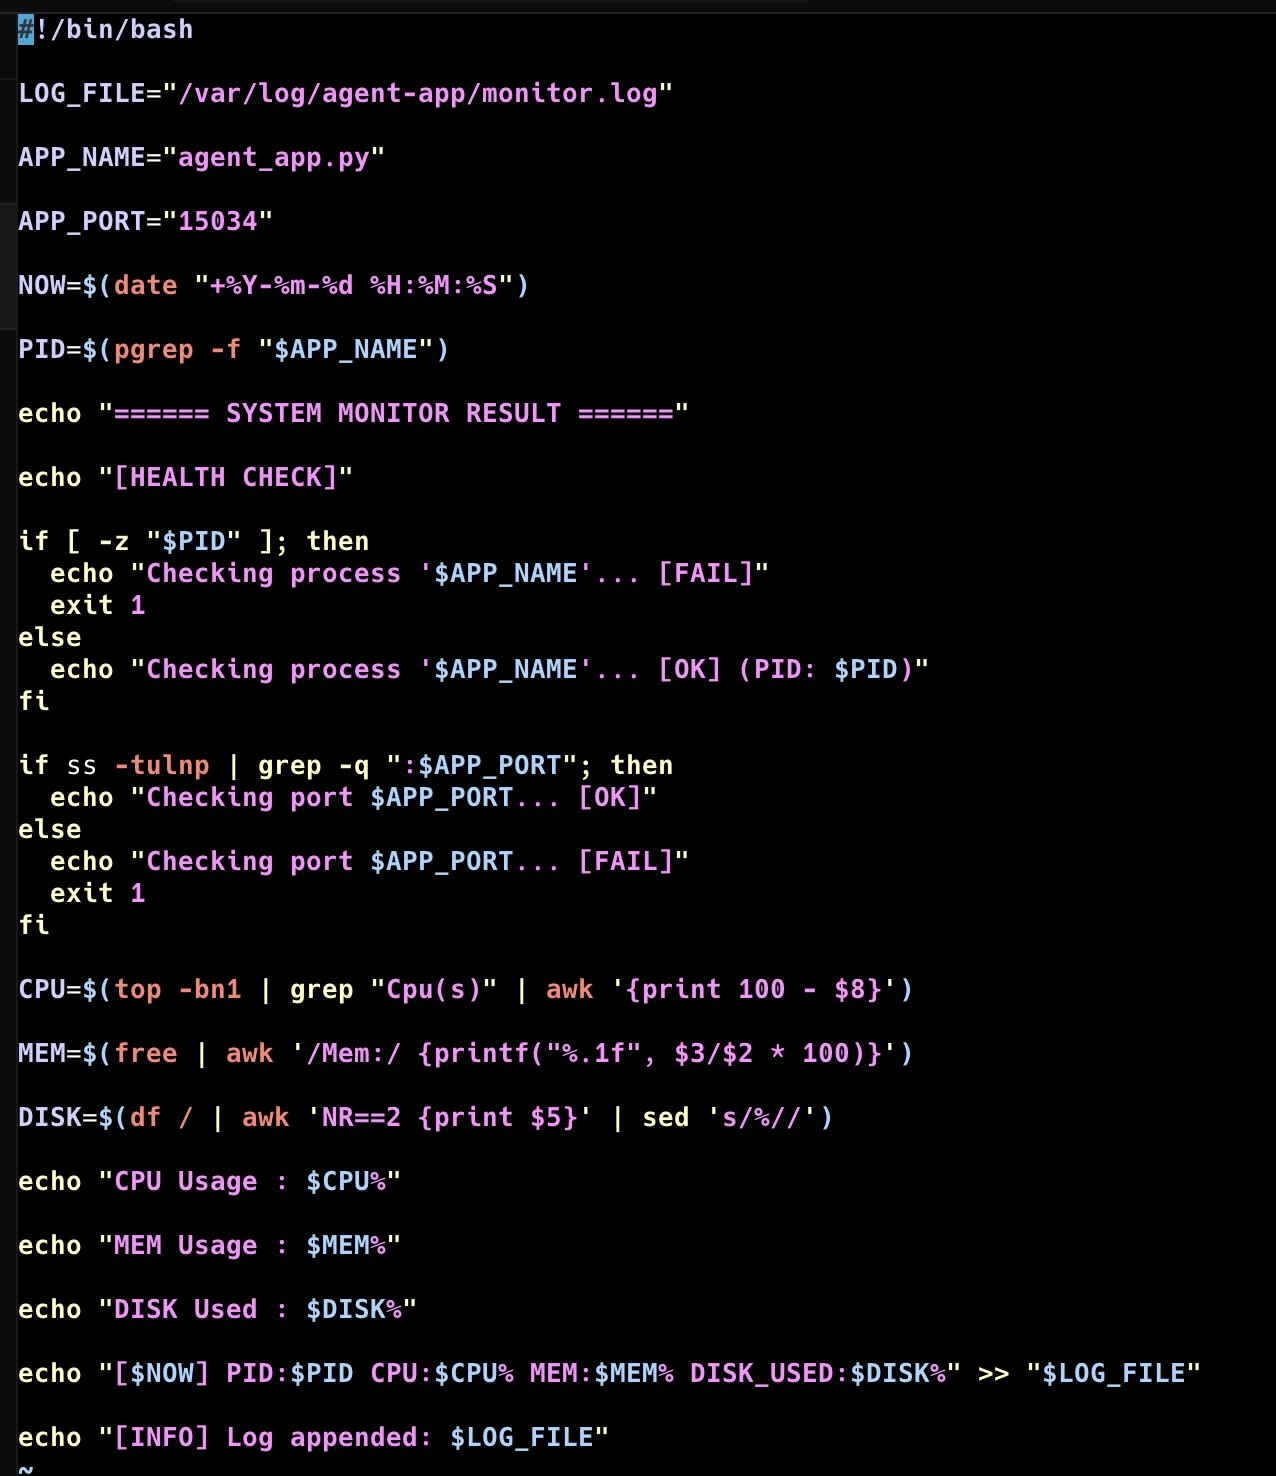
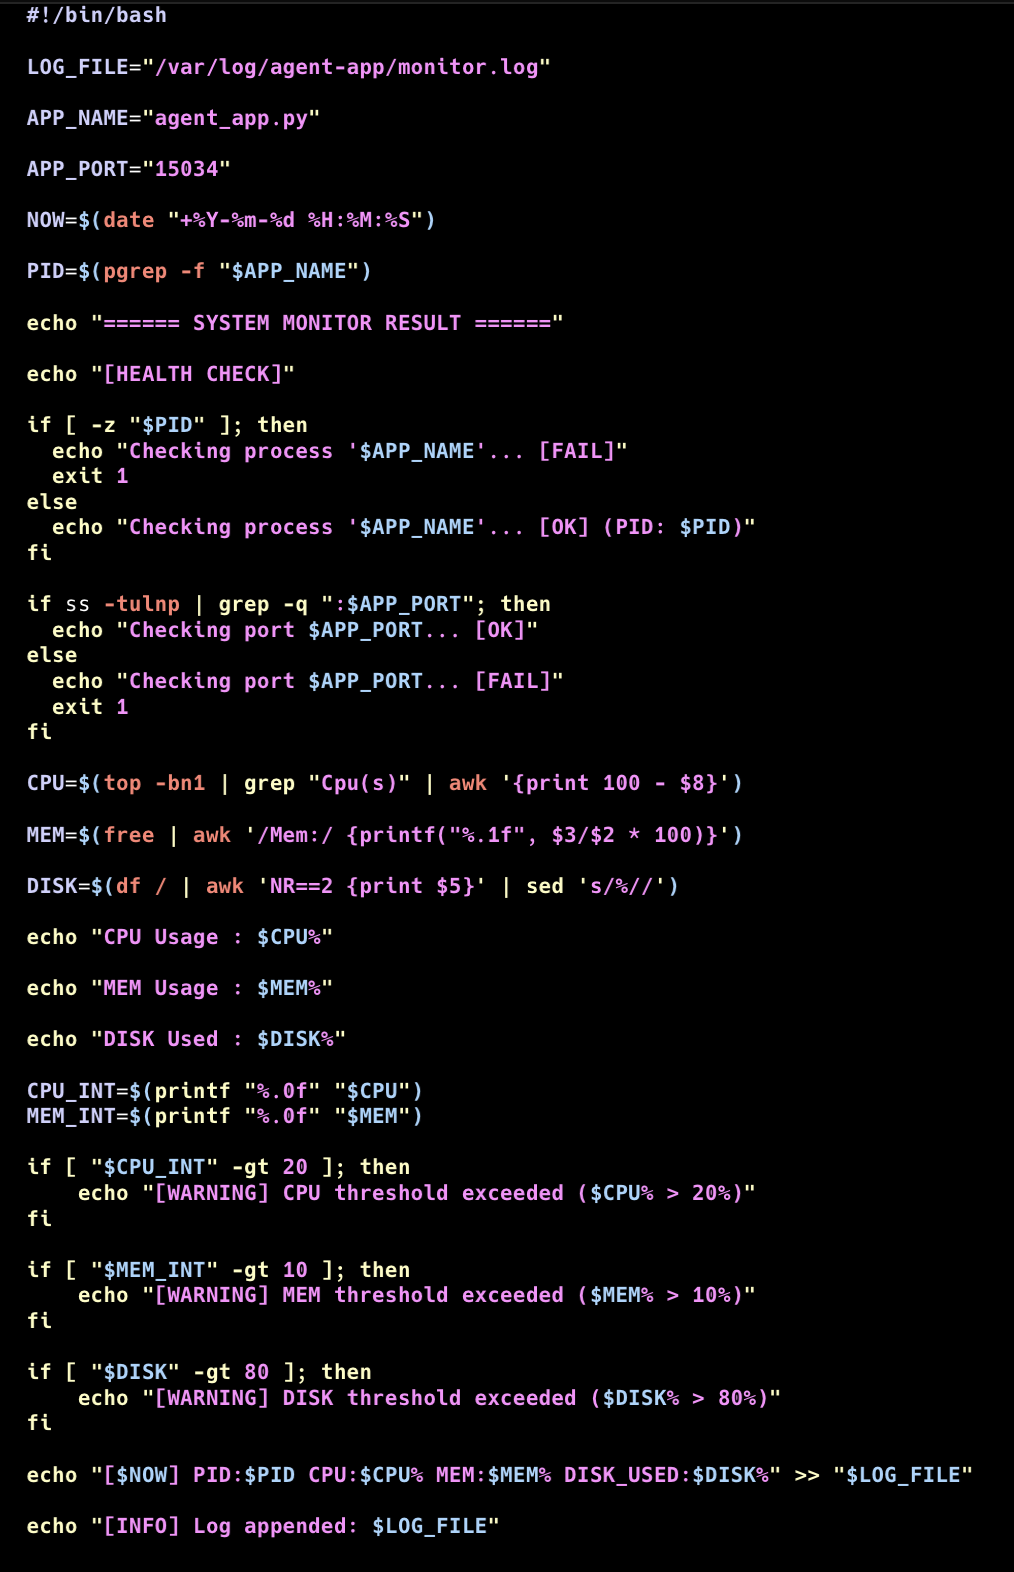
수정

diff --git a/README.md b/README.md
@@ -183,11 +183,13 @@ Docker를 이용하여
       chmod 770 api_keys
       chmod 770 /var/log/agent-app
       ls -ld /var/log/agent-app
+      getfacl /usr/bin/getfacl
      ```
 
      결과 이미지
      ![이미지설명](./image/36-1.png)
      ![이미지설명](./image/36-2.png)
+     ![이미지설명](./image/43.png)
 
    - 환경 변수 설정
 
@@ -278,6 +280,10 @@ Docker를 이용하여
 
      ```bash
       ./monitor.sh
+      ls -l /home/agent-admin/agent-app/bin/monitor.sh
+      getfacl /home/agent-admin/agent-app/upload_files
+      getfacl /home/agent-admin/agent-app/api_keys
+      getfacl /var/log/agent-app
      ```
 
      내용
@@ -325,6 +331,21 @@ Docker를 이용하여
 
       echo "DISK Used : $DISK%"
 
+      CPU_INT=$(printf "%.0f" "$CPU")
+      MEM_INT=$(printf "%.0f" "$MEM")
+
+      if [ "$CPU_INT" -gt 20 ]; then
+          echo "[WARNING] CPU threshold exceeded ($CPU% > 20%)"
+      fi
+
+      if [ "$MEM_INT" -gt 10 ]; then
+          echo "[WARNING] MEM threshold exceeded ($MEM% > 10%)"
+      fi
+
+      if [ "$DISK" -gt 80 ]; then
+          echo "[WARNING] DISK threshold exceeded ($DISK% > 80%)"
+      fi
+
       echo "[$NOW] PID:$PID CPU:$CPU% MEM:$MEM% DISK_USED:$DISK%" >> "$LOG_FILE"
 
       echo "[INFO] Log appended: $LOG_FILE"
@@ -334,6 +355,8 @@ Docker를 이용하여
      결과 이미지
      ![이미지설명](./image/35-1.png)
      ![이미지설명](./image/35-2.png)
+     ![이미지설명](./image/45.png)
+     ![이미지설명](./image/44.png)
 
    - 모니터링 로그 저장 기능 구현
 
